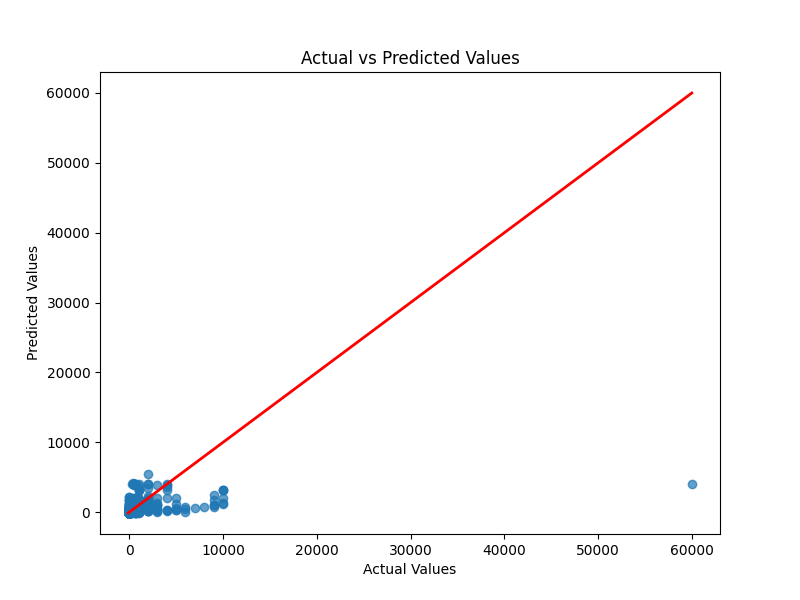
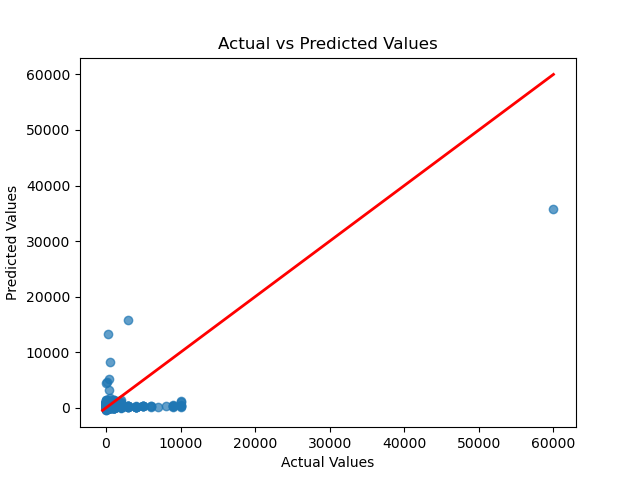
mlp fixed, better r2

diff --git a/neural_net.py b/neural_net.py
@@ -1,69 +1,82 @@
 import numpy as np
 
 class NeuralNetwork:
-    def __init__(self, input_size, hidden_size, output_size, activation, activation_deriv):
+    def __init__(self, input_size, hidden_size1, hidden_size2, output_size, activation, activation_deriv, lambda_reg=0.001):
         self.input_size = input_size
-        self.hidden_size = hidden_size
+        self.hidden_size1 = hidden_size1
+        self.hidden_size2 = hidden_size2
         self.output_size = output_size
         
         # Initialize weights and biases
-        self.W1 = np.random.uniform(-0.5, 0.5, (input_size, hidden_size))
-        self.b1 = np.random.uniform(-0.5, 0.5, (1, hidden_size))
-        self.W2 = np.random.uniform(-0.5, 0.5, (hidden_size, output_size))
-        self.b2 = np.random.uniform(-0.5, 0.5, (1, output_size))
+        self.W1 = np.random.uniform(-0.5, 0.5, (input_size, hidden_size1))
+        self.b1 = np.random.uniform(-0.5, 0.5, (1, hidden_size1))
+        
+        self.W2 = np.random.uniform(-0.5, 0.5, (hidden_size1, hidden_size2))
+        self.b2 = np.random.uniform(-0.5, 0.5, (1, hidden_size2))
+        
+        self.W3 = np.random.uniform(-0.5, 0.5, (hidden_size2, output_size))
+        self.b3 = np.random.uniform(-0.5, 0.5, (1, output_size))
         
         self.activation = activation
         self.activation_deriv = activation_deriv
         
+        # Regularization parameter
+        self.lambda_reg = lambda_reg
+
     def forward(self, X):
-        """
-        Perform forward propagation
-        """
         self.z1 = np.dot(X, self.W1) + self.b1
         self.a1 = self.activation(self.z1)
         self.z2 = np.dot(self.a1, self.W2) + self.b2
-        # Output layer --> linear
-        return self.z2
-        
+        self.a2 = self.activation(self.z2)
+        self.z3 = np.dot(self.a2, self.W3) + self.b3
+        output = self.z3
+        return output
+
     def backward(self, X, y, output, learning_rate):
-        """
-        Perform backpropagation and update weights
-        """
         m = X.shape[0]
         y = y.reshape(-1, 1)
-        
-        # Compute gradient of mean squared error loss
         dLoss_output = (output - y) / m
         
-        # Gradients for second layer
-        dW2 = np.dot(self.a1.T, dLoss_output)
-        db2 = np.sum(dLoss_output, axis=0, keepdims=True)
+        # Gradients for output layer
+        dW3 = np.dot(self.a2.T, dLoss_output)
+        db3 = np.sum(dLoss_output, axis=0, keepdims=True)
+
+        # Add L2 regularization term for W3
+        dW3 += self.lambda_reg * self.W3
         
-        # Backpropagate into hidden layer
-        dA1 = np.dot(dLoss_output, self.W2.T)
+        # Backpropagate into hidden layer 2
+        dA2 = np.dot(dLoss_output, self.W3.T)
+        dZ2 = dA2 * self.activation_deriv(self.z2)
+        dW2 = np.dot(self.a1.T, dZ2)
+        db2 = np.sum(dZ2, axis=0, keepdims=True)
+        
+        # Add L2 regularization term for W2
+        dW2 += self.lambda_reg * self.W2
+        
+        # Backpropagate into hidden layer 1
+        dA1 = np.dot(dZ2, self.W2.T)
         dZ1 = dA1 * self.activation_deriv(self.z1)
         dW1 = np.dot(X.T, dZ1)
         db1 = np.sum(dZ1, axis=0, keepdims=True)
+
+        # Add L2 regularization term for W1
+        dW1 += self.lambda_reg * self.W1
         
         # Update weights and biases
+        self.W3 -= learning_rate * dW3
+        self.b3 -= learning_rate * db3
         self.W2 -= learning_rate * dW2
         self.b2 -= learning_rate * db2
         self.W1 -= learning_rate * dW1
         self.b1 -= learning_rate * db1
-        
+
     def train(self, X, y, epochs, learning_rate):
-        """
-        Train the neural network
-        """
         for epoch in range(epochs):
             output = self.forward(X)
-            loss = np.mean(0.5 * (output - y.reshape(-1, 1))**2)
+            loss = np.mean(0.5 * (output - y.reshape(-1, 1)) ** 2)
             self.backward(X, y, output, learning_rate)
             if epoch % 100 == 0:
                 print(f"Epoch: {epoch}, Loss: {loss:.4f}")
-                
+
     def predict(self, X):
-        """
-        Generate predictions for given inputs
-        """
         return self.forward(X)

diff --git a/helpers.py b/helpers.py
@@ -1,10 +1,13 @@
 import pandas as pd
 from sklearn.preprocessing import OneHotEncoder
 import numpy as np
+from sklearn.feature_extraction.text import TfidfVectorizer
+from sentence_transformers import SentenceTransformer
+
 
 def load_data(filename):
     """
-    Load a CSV file into a pandas DataFrame.
+    Load a CSV file into a pandas DataFrame
     """
     df = pd.read_csv(filename)
     return df
@@ -17,7 +20,7 @@ def relu(x):
 
 def drelu(x):
     """
-    Derivative of the ReLU activation function.
+    Derivative of the ReLU activation function
     """
     return (x > 0).astype(float)
 
@@ -35,8 +38,8 @@ def dtanh(x):
 
 def prepare_data(df):
     """
-    Prepare input features and target values from the DataFrame.
-    Converts columns to appropriate data types and returns NumPy arrays.
+    Prepare input features and target values from the DataFrame
+    Converts columns to appropriate data types and returns NumPy arrays
     """
     # Convert numeric columns to float to be sure of correct type
     df['stars'] = df['stars'].astype(float)
@@ -47,15 +50,24 @@ def prepare_data(df):
     # Convert target column to float
     df['boughtInLastMonth'] = df['boughtInLastMonth'].astype(float)
     
-    # One-hot encode the 'category' column.
+    # One-hot encode the category col
     ohe = OneHotEncoder(sparse_output=False)
     category_encoded = ohe.fit_transform(df[['category']])
-    
-    # Extract numeric features.
+
+    # TF-IDF on titles
+    tfidf = TfidfVectorizer(max_features=20)
+    title_tfidf = tfidf.fit_transform(df['title']).toarray()
+
+    # Sentence-BERT on titles
+    model = SentenceTransformer('all-MiniLM-L6-v2')
+    title_sbert = model.encode(df['title'].tolist(), show_progress_bar=True)
+    title_sbert = np.array(title_sbert)
+
+    # numeric features
     numeric_features = df[['stars', 'reviews', 'price', 'isBestSeller']].to_numpy().astype(np.float64)
     
-    # Combine numeric features and one-hot encoded category features.
-    X = np.hstack((numeric_features, category_encoded)).astype(np.float64)
+    # Combine numeric features with one-hot encoded categories and title features
+    X = np.hstack((numeric_features, category_encoded, title_tfidf, title_sbert)).astype(np.float64)
     y = df['boughtInLastMonth'].to_numpy().astype(np.float64)
     
     return X, y

diff --git a/main.py b/main.py
@@ -9,13 +9,13 @@ def main():
     filename = '/Users/laurenally/Desktop/ML 2/amz_us_price_prediction_dataset.csv'
     df = load_data(filename)
     
-    # Randomly sample
+    # Randomly sample from very large dataset
     df = df.sample(n=16000, random_state=42)
     
     # Prepare the data
     X, y = prepare_data(df)
     
-    # Split the data into train (80%) and test (20%) sets
+    # Split data into training and testing sets
     X_train, X_test, y_train, y_test = train_test_split(X, y, test_size=0.2, random_state=42)
     
     # Scale feature data
@@ -24,28 +24,31 @@ def main():
     X_test = scaler_X.transform(X_test)
     
     scaler_y = StandardScaler()
+    # Scale target data
     # Reshape y to 2D array, then flatten back later
     y_train = scaler_y.fit_transform(y_train.reshape(-1, 1)).ravel()
     y_test = scaler_y.transform(y_test.reshape(-1, 1)).ravel()
     
     input_size = X_train.shape[1]
-    hidden_size = 5
+    hidden_size1 = 30
+    hidden_size2 = 15
     output_size = 1
-    learning_rate = 0.12 
+    learning_rate = 0.01
     epochs = 10000
     
-    nn = NeuralNetwork(input_size, hidden_size, output_size, relu, drelu)
+    nn = NeuralNetwork(input_size, hidden_size1, hidden_size2, output_size, relu, drelu)
     nn.train(X_train, y_train, epochs, learning_rate)
     predictions = nn.predict(X_test)
     
-    # Inverse-transform the predictions back to the original scale for comparison
+    # Inverse-transform the predictions back to original scale for comparison
     predictions_unscaled = scaler_y.inverse_transform(predictions)
     y_test_unscaled = scaler_y.inverse_transform(y_test.reshape(-1, 1))
     
-    print("DONE -- Predictions generated, Analyzing results...")
-    # Evaluate the model
+    print("DONE -- Predictions generated, Analyzing results...\n")
+
+    # Evaluate model
     extended_metrics = evaluate_model_all(y_test_unscaled, predictions_unscaled)
-    print("Extended Metrics:", extended_metrics)
+    print("Extended Metrics:\n", extended_metrics)
     
     # Plot Actual vs Predicted, Residual Plot, and Error Histogram
     plot_actual_vs_predicted(y_test_unscaled, predictions_unscaled)

diff --git a/analysis.py b/analysis.py
@@ -6,9 +6,7 @@ from sklearn.metrics import mean_squared_error, mean_absolute_error, r2_score
 
 def evaluate_model_all(y_true, y_pred):
     """
-    Evaluate the regression model using multiple metrics: 
-        Mean Squared Error (MSE), Root Mean Squared Error (RMSE), 
-        Mean Absolute Error (MAE), and R squared score
+    Evaluate the regression model using multiple metrics
     """
     mse = mean_squared_error(y_true, y_pred)
     rmse = np.sqrt(mse)
@@ -20,12 +18,12 @@ def plot_actual_vs_predicted(y_true, y_pred):
     """
     Plot actual vs. predicted values
     """
-    plt.figure(figsize=(8, 6))
     plt.scatter(y_true, y_pred, alpha=0.7)
     plt.xlabel("Actual Values")
     plt.ylabel("Predicted Values")
     plt.title("Actual vs Predicted Values")
-    # Plot a diagonal line for reference
+    
+    # Plot diagonal line for reference
     min_val = np.min([np.min(y_true), np.min(y_pred)])
     max_val = np.max([np.max(y_true), np.max(y_pred)])
     plt.plot([min_val, max_val], [min_val, max_val], color='red', lw=2)
